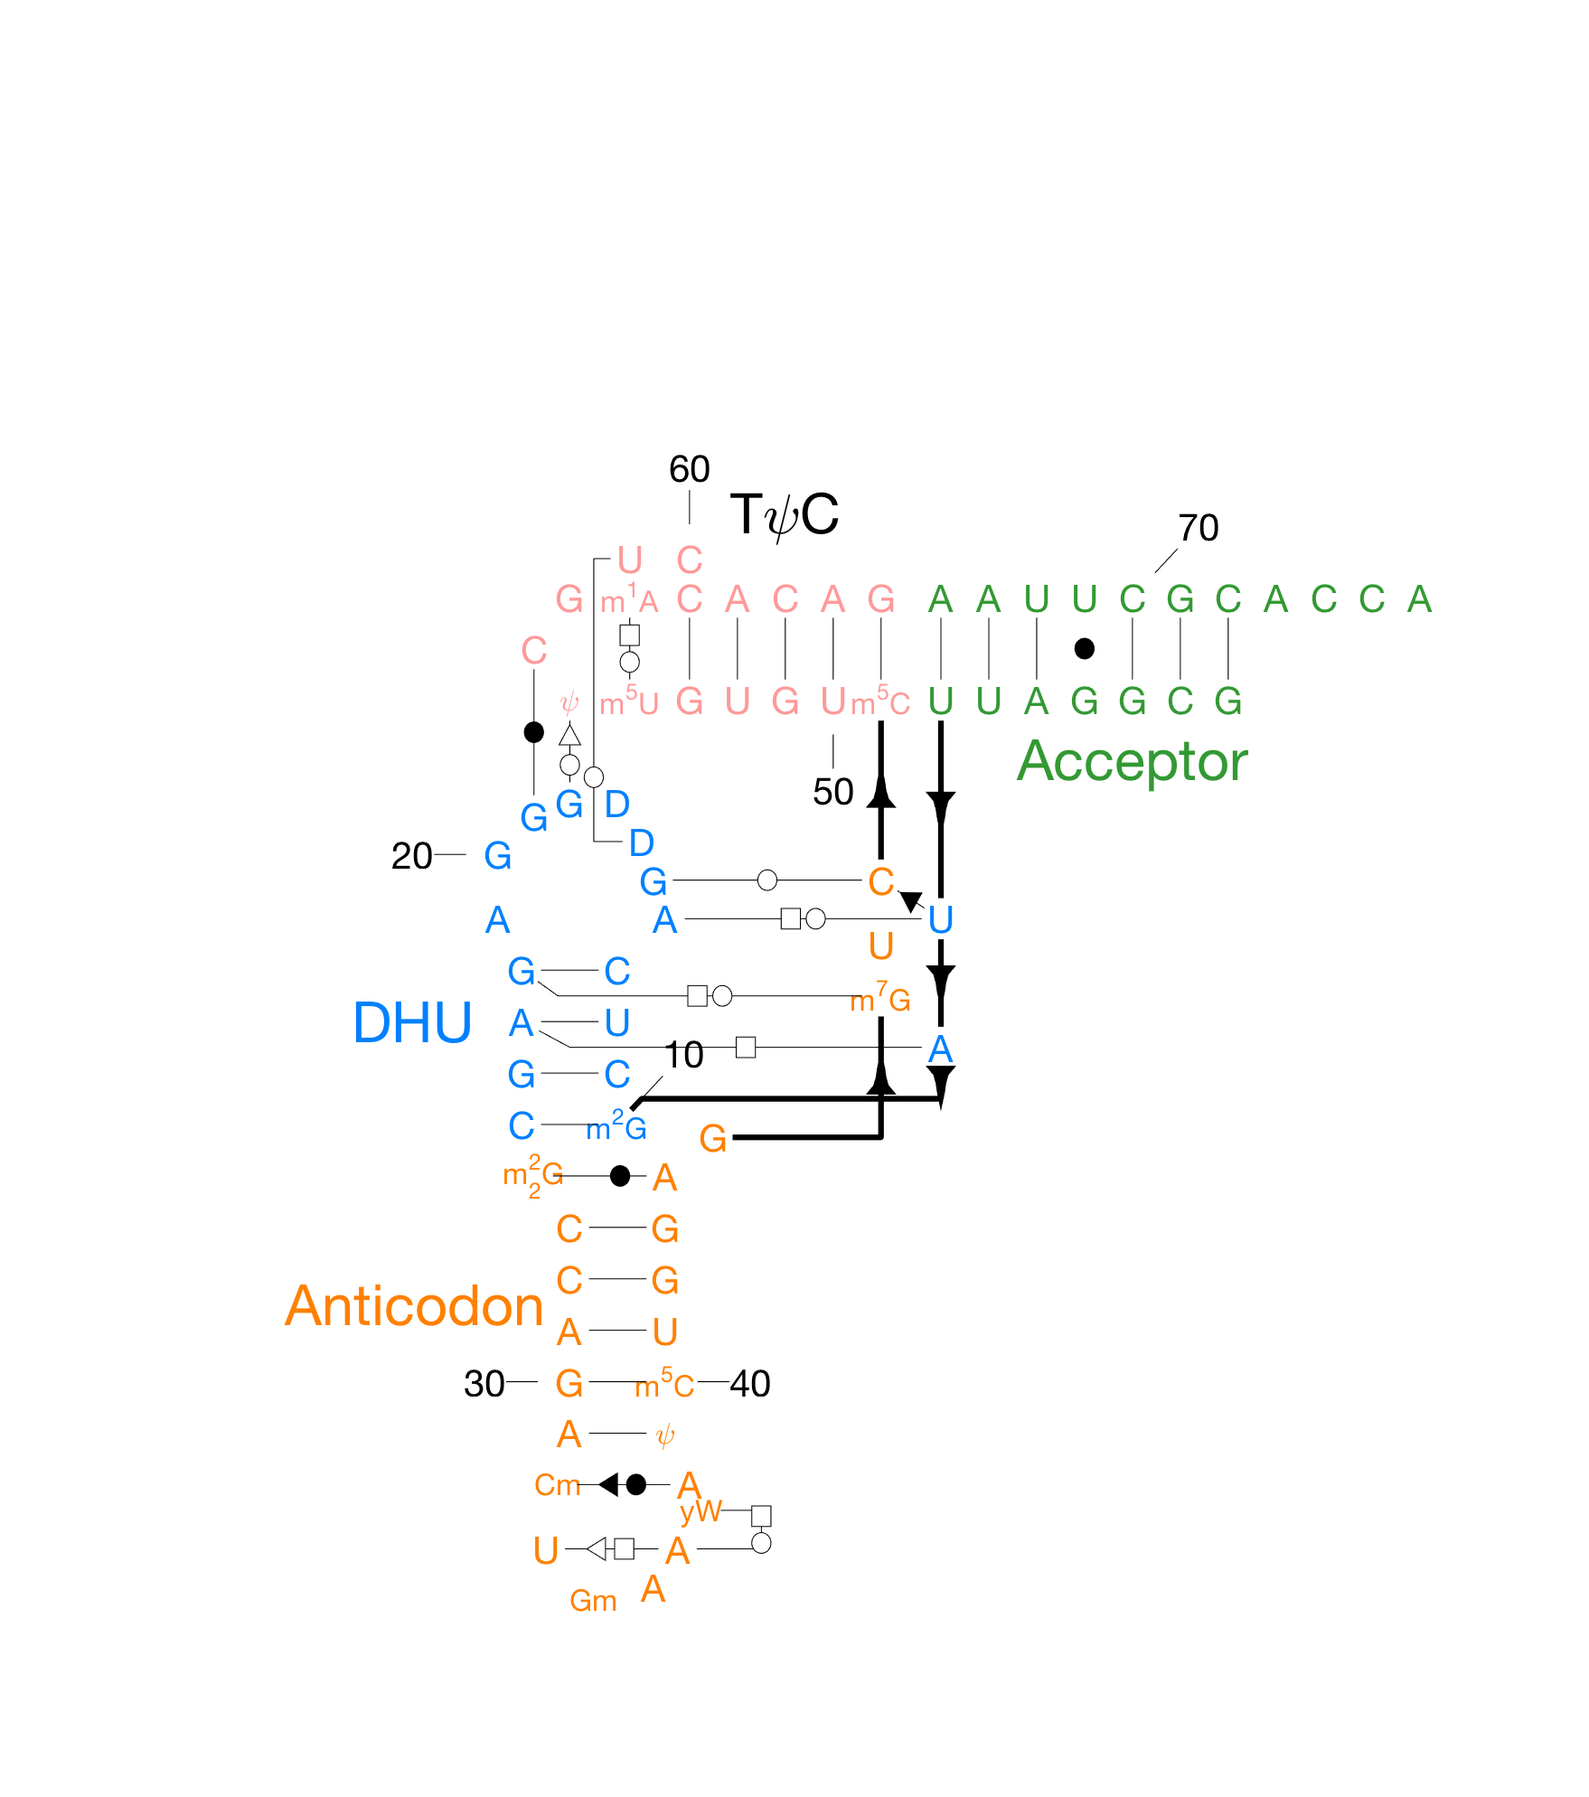
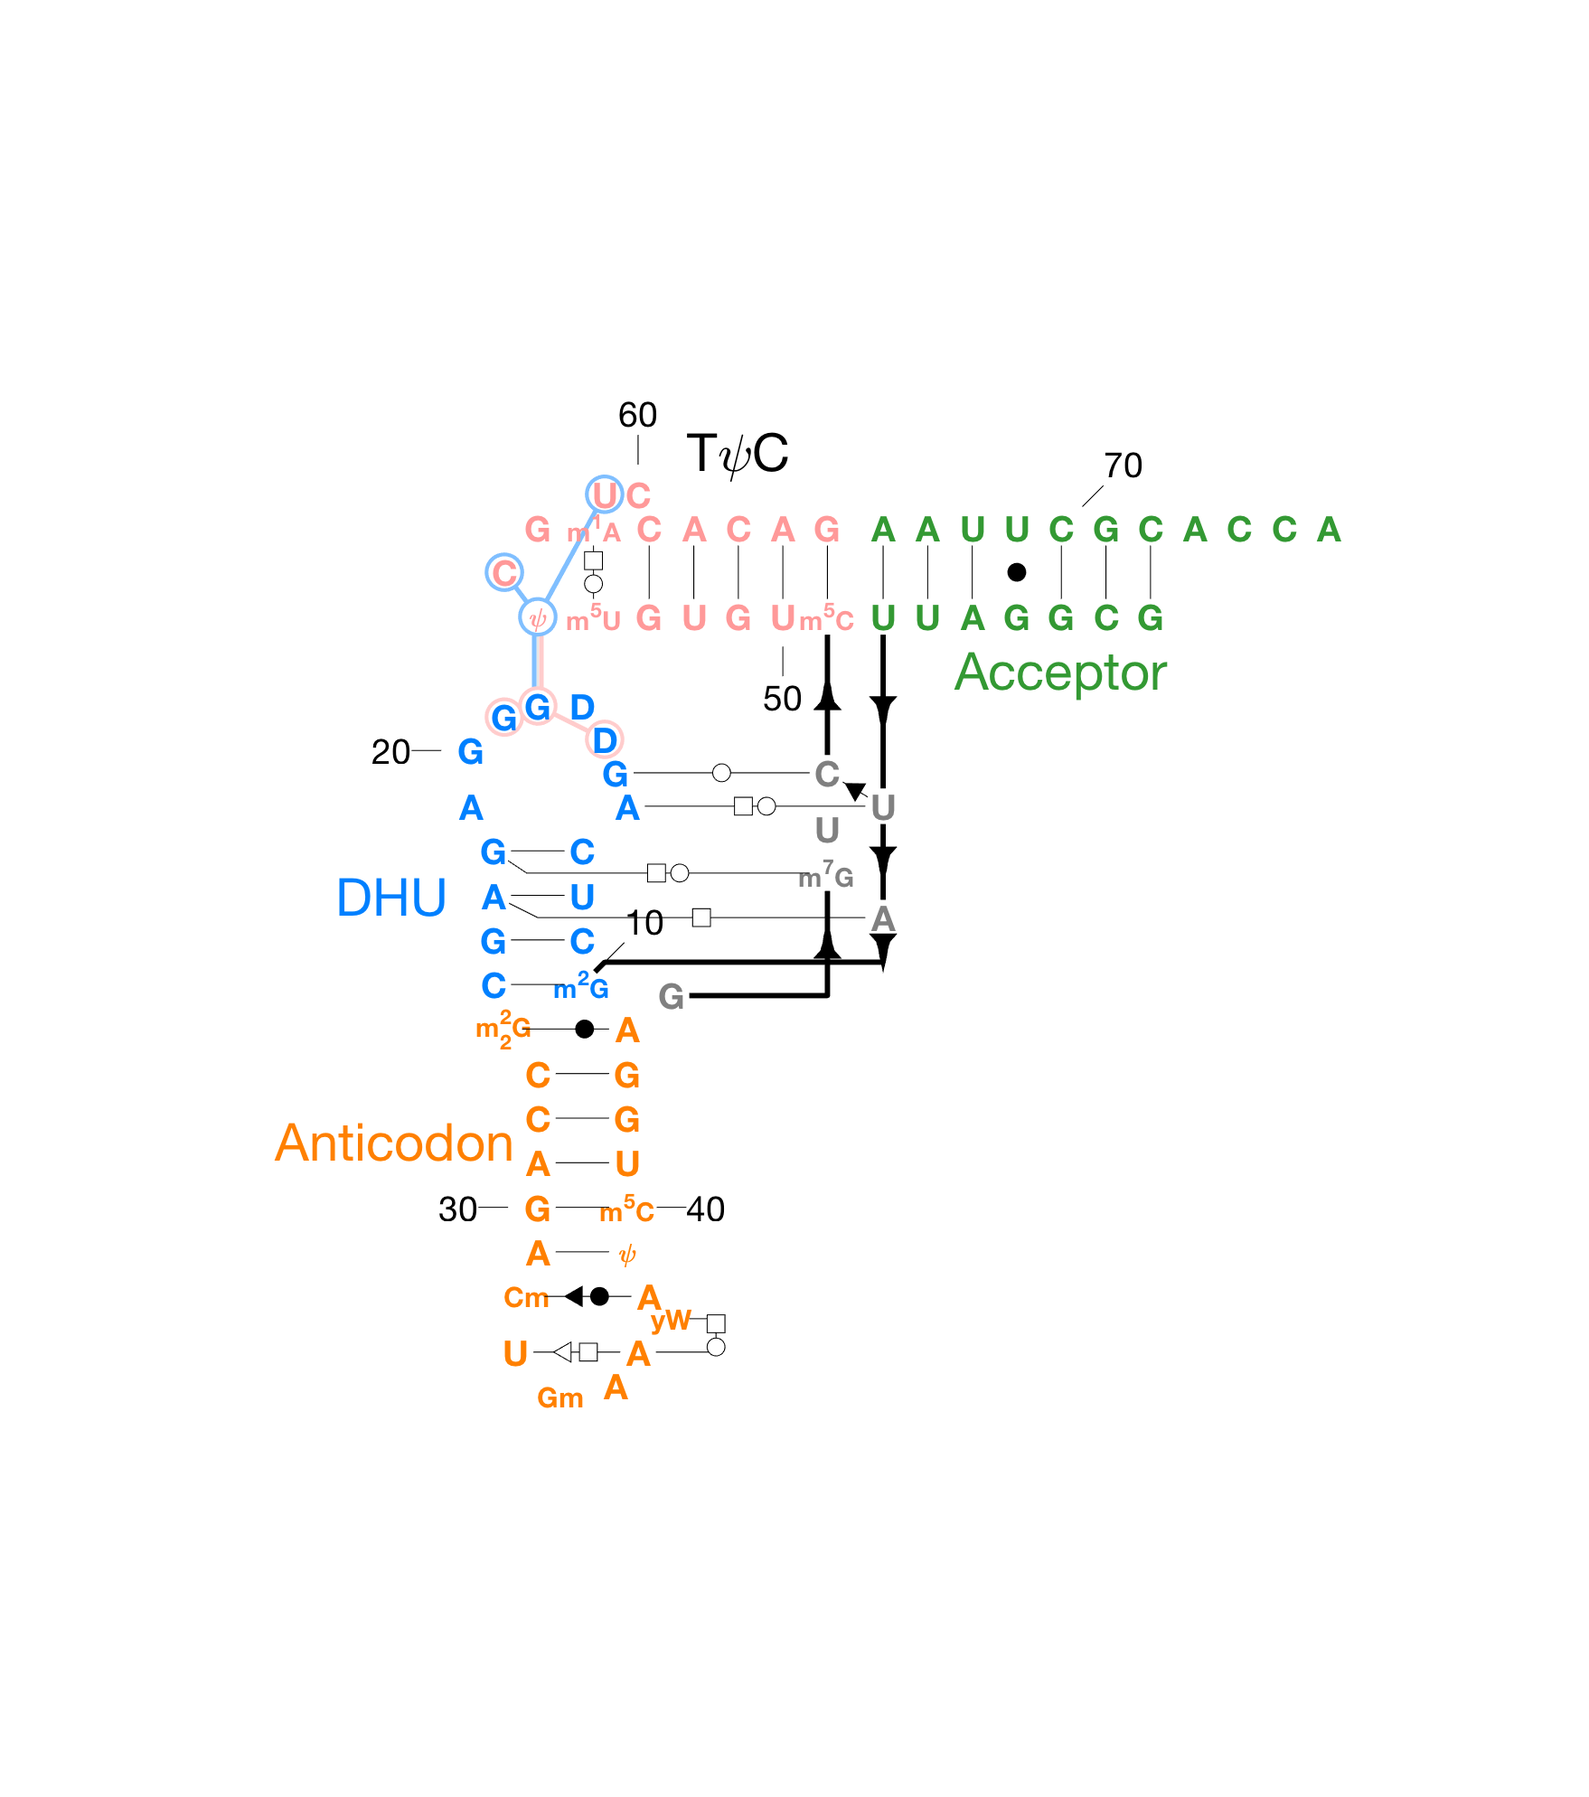
cleanup tertiary_contact rendering. allow save

Changed region(s): [[0.1843, 0.2183, 0.8601, 0.8421], [0.215, 0.4678, 0.2765, 0.5302], [0.4608, 0.7485, 0.4915, 0.7797]]

diff --git a/Scripts/linkers/draw_linker.m b/Scripts/linkers/draw_linker.m
@@ -30,7 +30,8 @@ linker = set_linker_endpos( linker, linker.residue2, 'relpos2', -1 );
 plot_pos1 = get_plot_pos( linker.residue1, linker.relpos1 );
 plot_pos2 = get_plot_pos( linker.residue2, linker.relpos2 );
 plot_pos = [plot_pos1; plot_pos2 ];
-
+end_pos1 = plot_pos1(1,:);
+end_pos2 = plot_pos2(end,:);
 
 if isfield( linker, 'arrow' ) 
     % hide linkers connecting consecutive residues if they are close
@@ -79,15 +80,63 @@ if isfield(linker,'arrow'); update_arrow( linker.arrow, ctr, v, visible, plot_se
 if isfield(linker,'symbol');  update_symbol( linker.symbol, ctr, v, 2, plot_settings.bp_spacing );  end
 if isfield(linker,'symbol1'); update_symbol( linker.symbol1, ctr - (1.3*plot_settings.bp_spacing/10)*v, v, 1, plot_settings.bp_spacing );  end;
 if isfield(linker,'symbol2'); update_symbol( linker.symbol2, ctr + (1.3*plot_settings.bp_spacing/10)*v, v, 2, plot_settings.bp_spacing );  end
+if isfield( linker, 'node1' ); update_symbol( linker.node1, end_pos1,v,1,plot_settings.bp_spacing*2 ); end; 
+if isfield( linker, 'node2' ); update_symbol( linker.node2, end_pos2,v,1,plot_settings.bp_spacing*2 ); end; 
+if isfield( linker, 'tertiary_contact' ); 
+    tertiary_contact = getappdata( gca, linker.tertiary_contact );
+    
+    if strcmp( linker.type, 'tertiary_contact_interdomain' )
+        % double color lines for interdomain;
+        side_line1_pos = []; side_line2_pos = [];
+        for i = 1:length( plot_pos ) - 1
+            segv = plot_pos(i+1,:) - plot_pos(i,:);
+            segv = segv/norm(segv);
+            segv = segv * [0 1; -1 0] * plot_settings.bp_spacing/25; % rotate
+            side_line1_pos = [side_line1_pos; plot_pos(i,:)-segv; plot_pos(i+1,:)-segv ];
+            side_line2_pos = [side_line2_pos; plot_pos(i,:)+segv; plot_pos(i+1,:)+segv ];
+        end
+        set( linker.side_line1, 'xdata', side_line1_pos(:,1), 'ydata', side_line1_pos(:,2) );
+        set( linker.side_line2, 'xdata', side_line2_pos(:,1), 'ydata', side_line2_pos(:,2) );
+    end
+    
+    % colors
+    residue1 = getappdata( gca, tertiary_contact.res1{1} );
+    residue2 = getappdata( gca, tertiary_contact.res2{1} );
+    
+    set( linker.line_handle, 'xdata', plot_pos(:,1), 'ydata', plot_pos(:,2) );
+    % make color informative about *other* domain
+    color1 = fade_color( residue2.rgb_color );
+    color2 = fade_color( residue1.rgb_color );
+    if strcmp( linker.type, 'tertiary_contact_interdomain' )
+        set( linker.node1, 'edgecolor',color1);
+        set( linker.node2, 'edgecolor',color2);
+        set( linker.side_line1, 'color', color1 );
+        set( linker.side_line2, 'color', color2 );
+        % also update pos
+    else
+        assert( strcmp( linker.type, 'tertiary_contact_intradomain' ) );
+        if any( strcmp( tertiary_contact.res1, linker.residue1 ) ) % in domain 1
+            set( linker.node2, 'edgecolor',color1);
+            set( linker.line_handle, 'color',color1);
+        else % in domain 2
+            assert( any( strcmp( tertiary_contact.res2, linker.residue1 ) ) );
+            set( linker.node2, 'edgecolor',color2);
+            set( linker.line_handle, 'color',color2);
+        end
+    end
+end
 
 if isfield( plot_settings, 'show_interdomain_noncanonical_pairs' ) & strcmp( linker.type, 'noncanonical_pair' )
-    setting = plot_settings.show_interdomain_noncanonical_pairs;
-    residue1 = getappdata( gca, linker.residue1 );
-    residue2 = getappdata( gca, linker.residue2 );
-    setting = setting | ~isfield( residue1, 'rgb_color' );
-    setting = setting | ~isfield( residue2, 'rgb_color' );
-    if (isfield( residue1, 'rgb_color' ) & isfield( residue2, 'rgb_color' ) )
-        setting = setting | ( norm( residue1.rgb_color - residue2.rgb_color ) < 0.1 );
+    setting = 1;
+    if ~plot_settings.show_interdomain_noncanonical_pairs
+        residue1 = getappdata( gca, linker.residue1 );
+        residue2 = getappdata( gca, linker.residue2 );
+        % check that there are two different (non-gray) colors
+        if isfield( residue1, 'rgb_color' ) & isfield( residue2, 'rgb_color' ) & ...
+            length(unique( residue1.rgb_color)) > 1 & ...
+            length(unique( residue2.rgb_color)) > 1  ...
+        setting = ( norm( residue1.rgb_color - residue2.rgb_color ) < 0.1 );
+        end
     end
     if setting; visible = 'on'; else; visible = 'off'; end;
     linker = set_linker_visibility( linker, visible );
@@ -138,9 +187,32 @@ switch linker.type
         setappdata( gca, linker.linker_tag, linker );
     case 'stack'
         linker.line_handle = plot( [0,0],[0,0],'color',[0.8 0.8 0.8],'linestyle',':','linewidth',1.5,'clipping','off' ); % dummy for now -- will get redrawn later.
-        %linker.line_handle = plot( [0,0],[0,0],'color',[0.8 0.8 0.8],'linestyle','-','linewidth',5 ); % dummy for now -- will get redrawn later.
+         setappdata( gca, linker.linker_tag, linker );
+    case 'tertiary_contact_interdomain'
+        linker.line_handle = plot( [0,0],[0,0],'color',[0.8 0.8 0.8],'linestyle','-','linewidth',0.5,'clipping','off' ); % dummy for now -- will get redrawn later.
+        linker.node1 = create_undercircle( plot_settings.bp_spacing );
+        linker.node2 = create_undercircle( plot_settings.bp_spacing );
+        linker.side_line1 = plot( [0,0],[0,0],'color',[0.8 0.8 0.8],'linestyle','-','linewidth',2.5,'clipping','off' ); % dummy for now -- will get redrawn later.
+        linker.side_line2 = plot( [0,0],[0,0],'color',[0.8 0.8 0.8],'linestyle','-','linewidth',2.5,'clipping','off' ); % dummy for now -- will get redrawn later.
+        uistack( linker.side_line1, 'bottom' );
+        uistack( linker.side_line2, 'bottom' );
+        uistack( linker.line_handle, 'bottom' );
+        setappdata( gca, linker.linker_tag, linker );
+    case 'tertiary_contact_intradomain'
+        linker.line_handle = plot( [0,0],[0,0],'color',[0.8 0.8 0.8],'linestyle','-','linewidth',2.5,'clipping','off' ); % dummy for now -- will get redrawn later.
+        linker.node2 = create_undercircle( plot_settings.bp_spacing );
+        uistack( linker.line_handle, 'bottom' );
         setappdata( gca, linker.linker_tag, linker );
 end
+
+%%%%%%%%%%%%%%%%%%%%%%%%%%%%%%%%%%%%%%%%%%%%%%%%%%%%%%%
+function h = create_undercircle( bp_spacing );
+t = linspace(0, 2*pi);
+r = bp_spacing/3;
+x = r*cos(t);
+y = r*sin(t);
+h = patch( x,y,'w','edgecolor',[0.8,0.8,0.8],'facecolor','w','linewidth',2);
+uistack( h, 'bottom' );
 
 %%%%%%%%%%%%%%%%%%%%%%%%%%%%%%%%%%%%%%%%%%%%%%%%%%%%%%%
 % Linkers (base pairs & arrow connectors)
@@ -214,8 +286,6 @@ assert( numv == size( vertices, 1 ) );
 set( h, 'xdata', vertices(:,1) );
 set( h, 'ydata', vertices(:,2) );
 
-      
-
 %%%%%%%%%%%%%%%%%%%%%%%%%%%%%%%%%%%%%%%%%%%%%%%%%%%%%%%
 function base_paired = check_for_base_pair( res_tag1, res_tag2 )
 residue1 = getappdata( gca, res_tag1 );
@@ -232,4 +302,9 @@ for i = 1:length( residue1.linkers )
         end
     end
 end
+
+%%%%%%%%%%%%%%%%%%%%%%%%%%%%%%%%%%%%%%%%%%%%%%%%%%%%%%%
+function color = fade_color( color );
+color = [1.0,1.0,1.0] - 0.5 * ( [1.0,1.0,1.0] - color );
+
 

diff --git a/Scripts/linkers/setup_tertiary_contact.m b/Scripts/linkers/setup_tertiary_contact.m
@@ -1,0 +1,68 @@
+function setup_tertiary_contact( contact_name, res1_string, res2_string )
+% setup_tertiary_contact( contact_name, res_tags1, res_tags2)
+% setup_tertiary_contact( contact_name, res1_string, res2_string )
+% (C) R. Das, Stanford University, 2017
+
+res_tags1 = get_res_tags( res1_string );
+res_tags2 = get_res_tags( res2_string );
+
+if length( res_tags1 ) == 0; return; end;
+if length( res_tags2 ) == 0; return; end;
+
+if ~isempty( intersect( res_tags1, res_tags2 ) )
+    fprintf( 'res_tags1 and res_tags2 have common residues... not creating tertiary contact %s\n', contact_name );
+    intersect( res_tags1, res_tags2 );
+    return 
+end
+
+contact_name_cleaned = strrep( strrep(contact_name, ' ', '_' ), '-', '_' ) ;
+tag = sprintf('TertiaryContact_%s', contact_name_cleaned );
+tertiary_contact.res1 = res_tags1;
+tertiary_contact.res2 = res_tags2;
+tertiary_contact.name = contact_name;
+tertiary_contact.tertiary_contact_tag = tag;
+
+% interdomain connector.
+linker.residue1 = res_tags1{1};
+linker.residue2 = res_tags2{1};
+linker.type = 'tertiary_contact_interdomain';
+linker.linker_tag = sprintf('Linker_%s_%s_%s_%s',linker.residue1(9:end),linker.residue2(9:end),  ...
+    contact_name_cleaned,linker.type);
+linker.tertiary_contact = tag;
+add_linker( linker );
+tertiary_contact.interdomain_linker = linker.linker_tag;
+
+tertiary_contact.linkers1 = setup_intradomain_linkers( res_tags1, contact_name_cleaned, tag );
+tertiary_contact.linkers2 = setup_intradomain_linkers( res_tags2, contact_name_cleaned, tag );
+setappdata( gca, tag, tertiary_contact );
+
+% draw these linkers
+res_tags = [res_tags1, res_tags2 ]; 
+helix_tags = {};
+for i = 1:length( res_tags );
+    residue = getappdata( gca, res_tags{i});
+    helix_tags = [ helix_tags, residue.helix_tag ];
+end
+helix_tags = unique( helix_tags );
+for i = 1:length( helix_tags ); draw_helix( getappdata( gca, helix_tags{i} ) ); end
+
+%%%%%%%%%%%%%%%%%%%%%%%%%%%%%%%%%%%%%%%%%%%%%%%%%%%%%%%%%%
+function linkers = setup_intradomain_linkers( res_tags, contact_name, tag );
+linkers = {};
+for k = 2:length( res_tags );
+    linker.residue1 = res_tags{1};
+    linker.residue2 = res_tags{k};
+    linker.type = 'tertiary_contact_intradomain';
+    linker.linker_tag = sprintf('Linker_%s_%s_%s_%s',linker.residue1(9:end),linker.residue2(9:end),  ...
+        contact_name,linker.type);
+    linker.tertiary_contact = tag;
+    add_linker( linker );
+    linkers = [ linkers, linker.linker_tag ];
+end
+
+%%%%%%%%%%%%%%%%%%%%%%%%%%%%%%%%%%%%%%%%%%%%%%%%%%%%%%%%%%
+function add_linker( linker )
+linker_tag = linker.linker_tag;
+add_linker_to_residue( linker.residue1, linker_tag )
+add_linker_to_residue( linker.residue2, linker_tag )
+if ~isappdata( gca, linker_tag );  setappdata( gca, linker_tag, linker );  end

diff --git a/Scripts/drawing/get_drawing.m b/Scripts/drawing/get_drawing.m
@@ -9,12 +9,14 @@ residue_tags = get_residue_tags();
 helix_tags = get_helix_tags();
 linker_tags = get_linker_tags();
 selection_tags = get_selection_tags();
+tertiary_contact_tags = get_tertiary_contact_tags();
 
 % try to save in this order -- will help with rendering elements later.
 savedata = save_residues( savedata, residue_tags );
 savedata = save_helices(  savedata, helix_tags );
 savedata = save_linkers(  savedata, linker_tags );
 savedata = save_selections( savedata, selection_tags );
+savedata = save_tertiary_contacts( savedata, tertiary_contact_tags );
 
 savedata.plot_settings = getappdata( gca, 'plot_settings' );
 savedata.xlim = get(gca, 'xlim' );
@@ -66,6 +68,17 @@ for n = 1:length( objnames )
     savedata = setfield( savedata, objnames{n}, selection );
 end
 
+
+%%%%%%%%%%%%%%%%%%%%%%%%%%%%%%%%%%%%%%%%%%%%%%%%%%%%%%%%%%%%%%%%%%%%%%%
+function savedata = save_tertiary_contacts( savedata, objnames )
+
+for n = 1:length( objnames )
+    assert( ~isempty( strfind( objnames{n}, 'TertiaryContact_' ) ) );
+    figure_selection = getappdata( gca, objnames{n} );
+    selection = copy_fields( figure_selection, {'res1','res2','name','tertiary_contact_tag'} );
+    savedata = setfield( savedata, objnames{n}, selection );
+end
+
 %%%%%%%%%%%%%%%%%%%%%%%%%%%%%%%%%%%%%%%%%%%%%%%%%%%%%%%%%%%%%%%%%%%%%%%
 function savedata = save_linkers( savedata, objnames )
     
@@ -91,9 +104,16 @@ stack_tags = get_tags( 'Linker_', 'stack' );
 arrow_tags = get_tags( 'Linker_', 'arrow' );
 stem_pair_tags = get_tags( 'Linker_', 'stem_pair' );
 noncanonical_tags = get_tags( 'Linker_', 'noncanonical_pair' );
-tags = [stack_tags, arrow_tags, stem_pair_tags, noncanonical_tags ];
+tertiary_contact_interdomain_tags = get_tags( 'Linker_', 'tertiary_contact_interdomain' );
+tertiary_contact_intradomain_tags = get_tags( 'Linker_', 'tertiary_contact_intradomain' );
+tags = [stack_tags, arrow_tags, stem_pair_tags, noncanonical_tags, tertiary_contact_interdomain_tags, tertiary_contact_intradomain_tags ];
 
 %%%%%%%%%%%%%%%%%%%%%%%%%%%%%%%%%%%%%%%%%%%%%%%%%%%%%%%%%%%%%%%%%%%%%%%
 function tags = get_selection_tags();
 tags = get_tags( 'Selection_' );
+
+%%%%%%%%%%%%%%%%%%%%%%%%%%%%%%%%%%%%%%%%%%%%%%%%%%%%%%%%%%%%%%%%%%%%%%%
+function tags = get_tertiary_contact_tags();
+tags = get_tags( 'TertiaryContact_' );
+
 

diff --git a/Scripts/color/color_drawing.m b/Scripts/color/color_drawing.m
@@ -58,7 +58,7 @@ else
     [resnum,chains,ok] = get_resnum_from_tag( selection );
     if ok 
         for i = 1:length( resnum )
-            res_tag = sprintf( 'Residue_%s%d', resnum(i), chains(i) );
+            res_tag = sprintf( 'Residue_%s%d', chains(i), resnum(i) );
             if isappdata( gca, res_tag )
                 res_tags = [res_tags, res_tag ];
             end
@@ -68,7 +68,11 @@ else
         objnames = fields( vals );
         if any( strcmp( objnames, selection ) )
             obj = getappdata( gca, selection );
-            res_tags = obj.associated_residues;
+            if isfield( obj, 'associated_residues' )
+                res_tags = obj.associated_residues;
+            else
+                res_tags = { selection };
+            end
             obj_name = selection;
         else
             for n = 1:length( objnames )

diff --git a/Scripts/selections/domain/setup_domain.m b/Scripts/selections/domain/setup_domain.m
@@ -7,16 +7,7 @@ domain.name = name;
 domain_tag = sprintf('Selection_%s_domain', strrep( strrep(name, ' ', '_' ), '-', '_' ) );
 domain.selection_tag = domain_tag;
 
-res_tags = {};
-if ischar( residue_string )
-    [resnum, chains, ok ] = get_resnum_from_tag( residue_string );
-    if ~ok;  fprintf( 'unrecognized tag: %s. Should be of form A:1-4 C:50-67\n', residue_string ); end
-    for i = 1:length( resnum )
-        res_tags = [res_tags, sprintf( 'Residue_%s%d', chains(i),resnum(i) ) ];
-    end
-elseif iscell( residue_string )
-    res_tags = residue_string;
-end
+res_tags = get_res_tags( residue_string );
 
 domain.associated_residues = {};
 associated_helices = {};

diff --git a/Scripts/selections/get_res_tags.m b/Scripts/selections/get_res_tags.m
@@ -1,0 +1,14 @@
+function res_tags = get_res_tags( residue_string ); 
+% res_tags = get_res_tags( residue_string ); 
+% helper function that takes 'A:1-4' and gives back { 'Residue_A1',
+% 'Residue_A2', 'Residue_A3', 'Residue_A4'};
+res_tags = {};
+if ischar( residue_string )
+    [resnum, chains, ok ] = get_resnum_from_tag( residue_string );
+    if ~ok;  fprintf( 'unrecognized tag: %s. Should be of form A:1-4 C:50-67\n', residue_string ); end
+    for i = 1:length( resnum )
+        res_tags = [res_tags, sprintf( 'Residue_%s%d', chains(i),resnum(i) ) ];
+    end
+elseif iscell( residue_string )
+    res_tags = residue_string;
+end

diff --git a/Scripts/gui/create_menu.m b/Scripts/gui/create_menu.m
@@ -1,0 +1,18 @@
+function create_menu( h );
+% test code -- figuring out right-click context menus.
+c = uicontextmenu;
+
+% Assign the uicontextmenu to the plot line
+h.UIContextMenu = c;
+r% Create child menu items for the uicontextmenu
+m1 = uimenu(c,'Label','Times','Callback',{@setlinestyle, h});
+m2 = uimenu(c,'Label','Helvetica','Callback',{@setlinestyle, h});
+
+    function setlinestyle(source,callbackdata, h)
+    switch source.Label
+        case 'Times'
+            h.FontName = 'Times';
+        case 'Helvetica'
+            h.FontName = 'Helvetica';
+    end
+    h

diff --git a/Scripts/drawing/get_tags.m b/Scripts/drawing/get_tags.m
@@ -18,7 +18,8 @@ tags = {};
 for n = 1:length( objnames )
     if isempty( strfind( objnames{n}, headstring ) ); continue; end;
     if exist( 'tailstring', 'var' ) 
-        if ~strcmp( objnames{n}(end-length(tailstring)+1 : end), tailstring ); continue; end;
+        if length( objnames{n} ) < length(tailstring ) | ...
+                ~strcmp( objnames{n}(end-length(tailstring)+1 : end), tailstring ); continue; end;
     end
     tags = [ tags, objnames{n}];
 end

diff --git a/Scripts/linkers/setup_base_pair_linkers.m b/Scripts/linkers/setup_base_pair_linkers.m
@@ -2,7 +2,6 @@ function setup_base_pair_linkers( base_pairs )
 % draw_dummy_base_pairs( base_pairs )
 %
 %
-plot_settings = getappdata(gca,'plot_settings');
 for i = 1:length( base_pairs )
     base_pair = base_pairs{i};
     res_tag1 = sprintf('Residue_%s%d',base_pair.chain1,base_pair.resnum1);

diff --git a/Scripts/setup/get_resnum_from_tag.m b/Scripts/setup/get_resnum_from_tag.m
@@ -31,6 +31,7 @@ chain = elems{1}; chains = chain;
 dashes = strfind( elems{2}, '-' );
 if length( dashes ) == 0 | dashes(1) == 1;
     resnum = str2num( elems{2} );
+    ok = true;
     return;
 end
 dash = dashes(1);

diff --git a/TODO.md b/TODO.md
@@ -1,8 +1,7 @@
 ## TODO
-* 'merged' interdomain tertiary contacts
-* cleanup names of domains to _domain.
+* patches for interdomain dual color linkers
+* auto-group interdomain linkers
 * more arrowheads on long linkers [extra_arrows1, extra_arrows2]
-* nicer arrowheads
 * allow rename of helices as 'display_label' [cleanup layout of 23S]
 * try coloring long-range canonical pairs
 * Fix chains for 5S RNA
